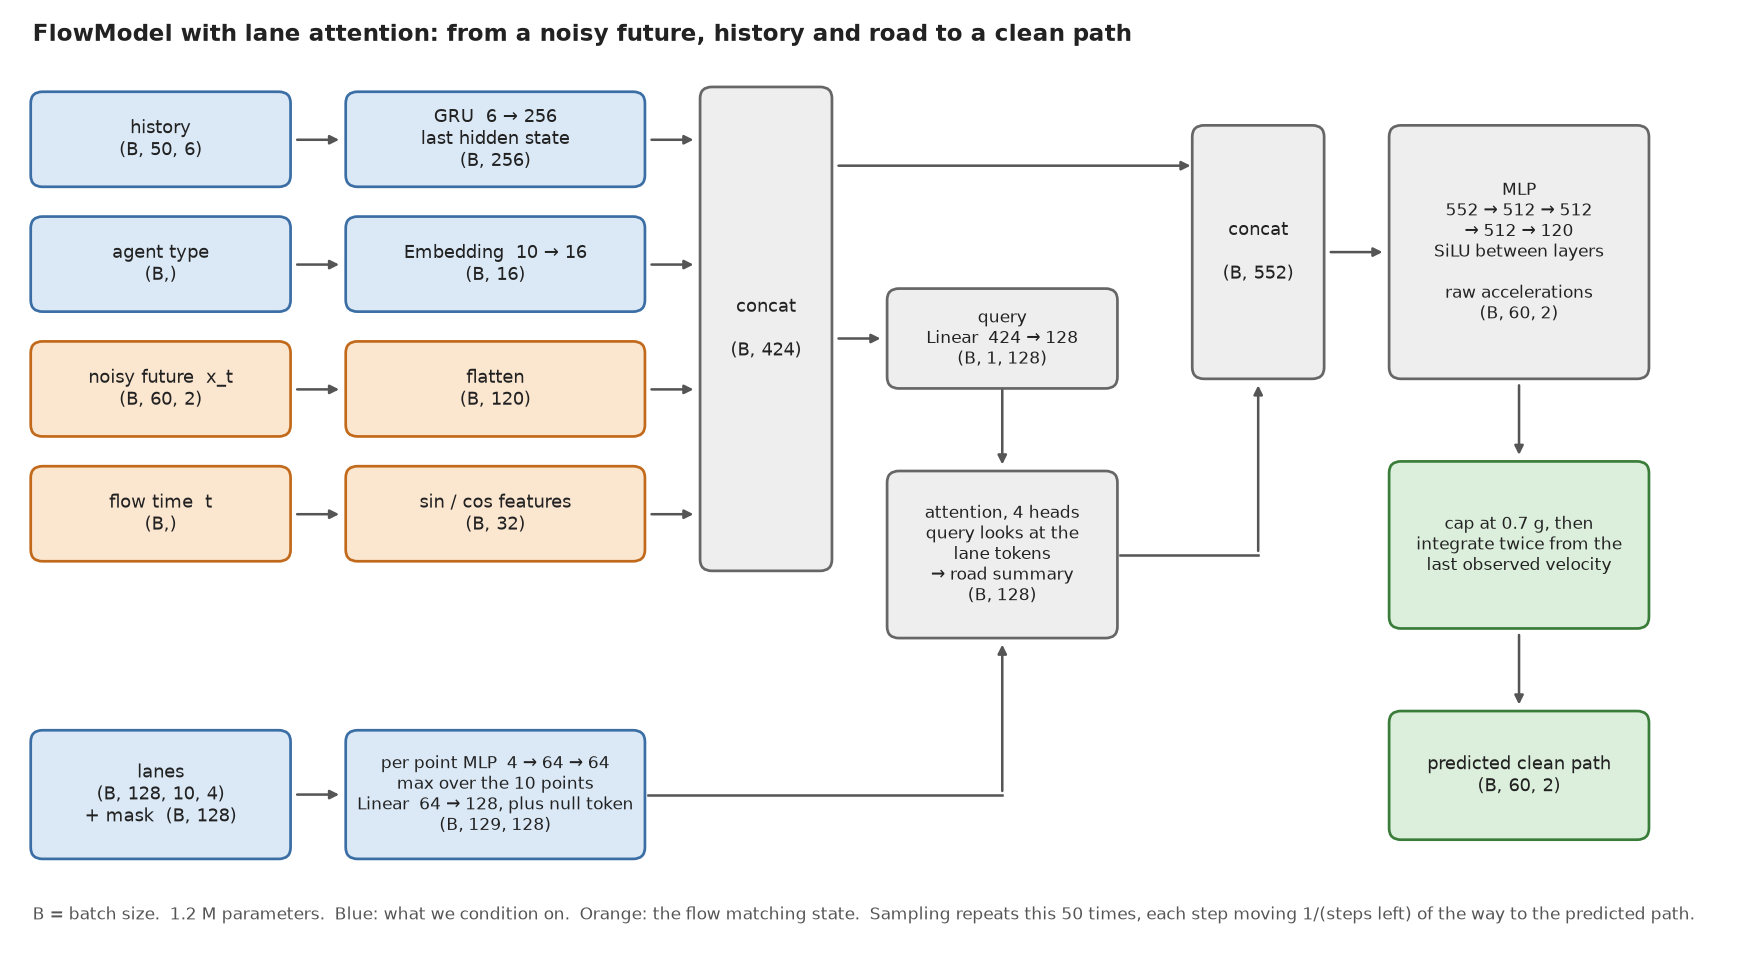
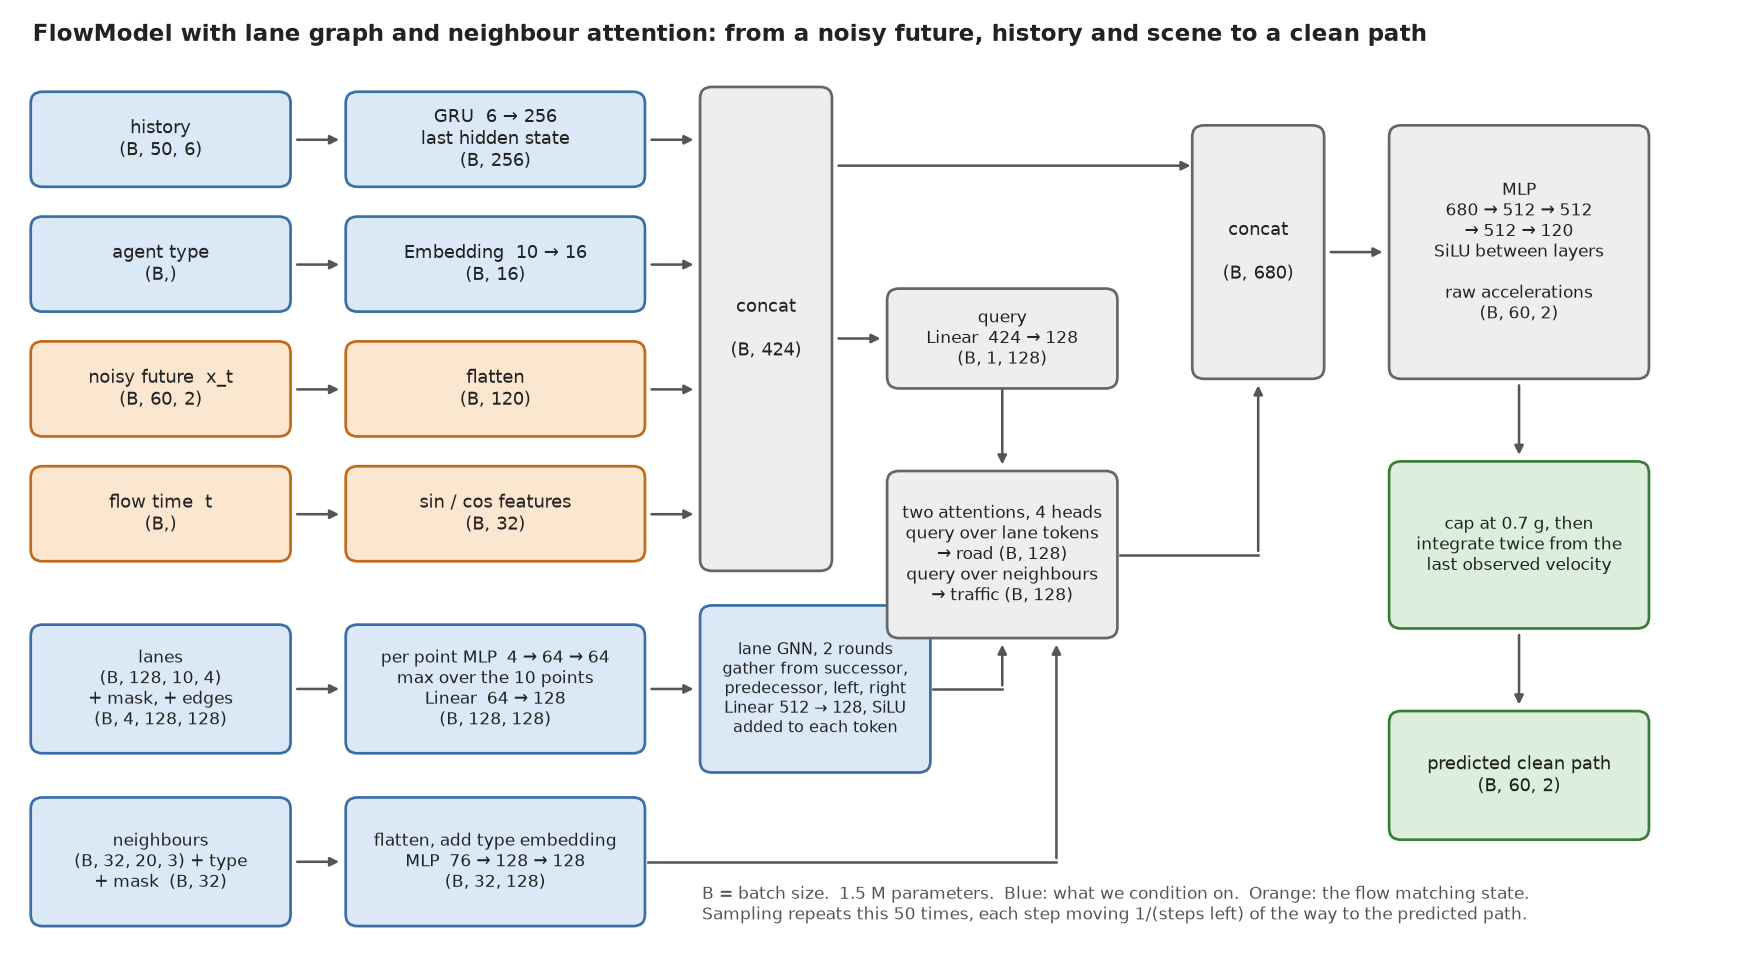
Add a lane graph network as stage 6
The loader keeps each lane's successor, predecessor, left and right
links and builds one adjacency per edge type, packed to bits in the
cache. Two rounds of message passing update the lane tokens before the
attention. The model overfits: train loss 0.003 against val 0.015, and
the six samples collapse, so best-of-6 gets worse while the single
sample improves. Scores and the edges-removed test are in results/.

Changed region(s): [[0.0, 0.6211, 0.9632, 0.9627], [0.1864, 0.0311, 0.8078, 0.0621], [0.5282, 0.528, 0.6525, 0.6211]]

diff --git a/model.py b/model.py
@@ -19,13 +19,14 @@ def integrate(u, v0):
 
 
 class FlowModel(nn.Module):
-    def __init__(self, hidden=256, type_dim=16, time_dim=32, width=512, token_dim=128):
+    def __init__(self, hidden=256, type_dim=16, time_dim=32, width=512, token_dim=128, gnn_layers=2):
         super().__init__()
         self.time_dim = time_dim
         self.type_embedding = nn.Embedding(len(TYPES), type_dim)
         self.history_encoder = nn.GRU(N_FEAT, hidden, batch_first=True)
         self.lane_points = nn.Sequential(nn.Linear(4, 64), nn.SiLU(), nn.Linear(64, 64))
         self.lane_token = nn.Linear(64, token_dim)
+        self.gnn = nn.ModuleList([nn.Sequential(nn.Linear(4 * token_dim, token_dim), nn.SiLU()) for _ in range(gnn_layers)])
         self.neighbor_token = nn.Sequential(nn.Linear(N_NEIGHBOR_STEPS * 3 + type_dim, token_dim), nn.SiLU(), nn.Linear(token_dim, token_dim))
         self.null_lane = nn.Parameter(torch.zeros(1, 1, token_dim))
         self.null_neighbor = nn.Parameter(torch.zeros(1, 1, token_dim))
@@ -46,18 +47,26 @@ class FlowModel(nn.Module):
         angles = t[:, None] * freqs
         return torch.cat([angles.sin(), angles.cos()], dim=1)
 
+    def message_pass(self, tokens, edges):
+        # each lane adds what it gathers from its successors, predecessors, left and right neighbours
+        for layer in self.gnn:
+            messages = torch.cat([edges[:, k].float() @ tokens for k in range(4)], dim=-1)
+            tokens = tokens + layer(messages)
+        return tokens
+
     def attend(self, attention, query, tokens, mask, null):
         # the null token keeps attention defined when a scene has nothing to attend to
         tokens = torch.cat([null.expand(len(tokens), -1, -1), tokens], dim=1)
         keep = torch.cat([torch.ones_like(mask[:, :1]), mask], dim=1)
         return attention(query, tokens, tokens, key_padding_mask=~keep)[0][:, 0]
 
-    def forward(self, x, t, history, type_id, lanes, lane_mask, neighbors, neighbor_mask, neighbor_type):
+    def forward(self, x, t, history, type_id, lanes, lane_mask, lane_edges, neighbors, neighbor_mask, neighbor_type):
         history_code = self.history_encoder(history)[1][-1]
         condition = torch.cat([history_code, self.type_embedding(type_id)], dim=1)
         inputs = torch.cat([x.flatten(1), condition, self.time_embedding(t)], dim=1)
         query = self.query(inputs)[:, None]
-        road = self.attend(self.lane_attention, query, self.lane_token(self.lane_points(lanes).max(2).values), lane_mask, self.null_lane)
+        lane_tokens = self.message_pass(self.lane_token(self.lane_points(lanes).max(2).values), lane_edges)
+        road = self.attend(self.lane_attention, query, lane_tokens, lane_mask, self.null_lane)
         traffic_tokens = self.neighbor_token(torch.cat([neighbors.flatten(2), self.type_embedding(neighbor_type)], dim=-1))
         traffic = self.attend(self.neighbor_attention, query, traffic_tokens, neighbor_mask, self.null_neighbor)
         u = self.acceleration_net(torch.cat([inputs, road, traffic], dim=1)).view(-1, N_FUT, 2)

diff --git a/av2_data.py b/av2_data.py
@@ -46,21 +46,31 @@ def load_scene(scenario_dir, max_neighbors=32, radius=100.0):
         neighbors[i, tr.timestep] = to_frame(tr[["position_x", "position_y"]].to_numpy(), origin, theta)
         neighbor_types.append(TYPES.index(tr.object_type.iloc[0]))
 
-    lanes = [np.array([[p["x"], p["y"]] for p in seg["centerline"]]) for seg in lane_map["lane_segments"].values()]
-    lanes = [to_frame(l, origin, theta) for l in lanes if np.linalg.norm(l - origin, axis=1).min() < radius]
+    segments = lane_map["lane_segments"].values()
+    lanes = {seg["id"]: to_frame(np.array([[p["x"], p["y"]] for p in seg["centerline"]]), origin, theta) for seg in segments}
+    lanes = {i: l for i, l in lanes.items() if np.linalg.norm(l, axis=1).min() < radius}
+    links = {seg["id"]: [seg["successors"], seg["predecessors"], [seg["left_neighbor_id"]], [seg["right_neighbor_id"]]] for seg in segments if seg["id"] in lanes}
 
-    return dict(id=sid, feat=feat, type=TYPES.index(focal.object_type.iloc[0]), hist=xy[:N_HIST], fut=xy[N_HIST:], neighbors=neighbors, neighbor_types=neighbor_types, lanes=lanes)
+    return dict(id=sid, feat=feat, type=TYPES.index(focal.object_type.iloc[0]), hist=xy[:N_HIST], fut=xy[N_HIST:], neighbors=neighbors, neighbor_types=neighbor_types, lanes=list(lanes.values()), lane_ids=list(lanes), lane_links=links)
 
 
-def lane_tokens(lanes):
+def lane_tokens(lanes, ids, links):
+    order = np.argsort([np.linalg.norm(l, axis=1).min() for l in lanes])[:N_LANES]
+    slot = {ids[j]: i for i, j in enumerate(order)}
     tokens = np.zeros((N_LANES, N_LANE_POINTS, 4), dtype=np.float32)
-    for i, j in enumerate(np.argsort([np.linalg.norm(l, axis=1).min() for l in lanes])[:N_LANES]):
+    # one adjacency per edge type: successor, predecessor, left neighbour, right neighbour
+    edges = np.zeros((4, N_LANES, N_LANES), dtype=bool)
+    for i, j in enumerate(order):
         length = np.concatenate([[0], np.cumsum(np.linalg.norm(np.diff(lanes[j], axis=0), axis=1))])
         along = np.linspace(0, length[-1], N_LANE_POINTS)
         points = np.column_stack([np.interp(along, length, lanes[j][:, k]) for k in range(2)])
         direction = np.gradient(points, axis=0)
         tokens[i] = np.column_stack([points, direction / np.linalg.norm(direction, axis=1, keepdims=True).clip(1e-6)])
-    return tokens, np.arange(N_LANES) < len(lanes)
+        for kind, targets in enumerate(links[ids[j]]):
+            for target in targets:
+                if target in slot:
+                    edges[kind, i, slot[target]] = True
+    return tokens, np.arange(N_LANES) < len(lanes), edges
 
 
 def neighbor_tokens(neighbors, types):

diff --git a/train.py b/train.py
@@ -11,26 +11,27 @@ def load(split):
     lanes, neighbors = torch.tensor(data["lanes"]), torch.tensor(data["neighbors"])
     lanes[..., :2] /= SCALE
     neighbors[..., :2] /= SCALE
-    return feat, fut, torch.tensor(data["type"]), lanes, torch.tensor(data["lane_mask"]), neighbors, torch.tensor(data["neighbor_mask"]), torch.tensor(data["neighbor_type"])
+    lane_edges = torch.tensor(np.unpackbits(data["lane_edges"], axis=-1).astype(bool))
+    return feat, fut, torch.tensor(data["type"]), lanes, torch.tensor(data["lane_mask"]), lane_edges, neighbors, torch.tensor(data["neighbor_mask"]), torch.tensor(data["neighbor_type"])
 
 
-def flow_loss(model, feat, fut, type_id, lanes, lane_mask, neighbors, neighbor_mask, neighbor_type, generator=None):
+def flow_loss(model, feat, fut, *scene, generator=None):
     x0 = torch.randn(fut.shape, generator=generator).to(fut.device)
     t = torch.rand(len(fut), generator=generator).to(fut.device)
     xt = (1 - t[:, None, None]) * x0 + t[:, None, None] * fut
-    return ((model(xt, t, feat, type_id, lanes, lane_mask, neighbors, neighbor_mask, neighbor_type) - fut) ** 2).mean()
+    return ((model(xt, t, feat, *scene) - fut) ** 2).mean()
 
 
 def val_loss(model, val):
     # fixed noise and times so the loss is comparable across checkpoints
     generator = torch.Generator().manual_seed(0)
     with torch.no_grad():
-        return np.mean([flow_loss(model, *(a[i : i + 500] for a in val), generator=generator).item() for i in range(0, len(val[1]), 500)])
+        return np.mean([flow_loss(model, *(a[i : i + 500].to(DEVICE) for a in val), generator=generator).item() for i in range(0, len(val[1]), 500)])
 
 
 if __name__ == "__main__":
     torch.manual_seed(0)
-    train, val = ([a.to(DEVICE) for a in load(split)] for split in ("train", "val"))
+    train, val = load("train"), load("val")
     model = FlowModel().to(DEVICE)
     ema = torch.optim.swa_utils.AveragedModel(model, multi_avg_fn=torch.optim.swa_utils.get_ema_multi_avg_fn(0.999))
     steps, batch = 20_000, 256
@@ -38,8 +39,8 @@ if __name__ == "__main__":
     scheduler = torch.optim.lr_scheduler.CosineAnnealingLR(optimizer, steps)
     losses = []
     for step in range(1, steps + 1):
-        idx = torch.randint(len(train[1]), (batch,), device=DEVICE)
-        loss = flow_loss(model, *(a[idx] for a in train))
+        idx = torch.randint(len(train[1]), (batch,))
+        loss = flow_loss(model, *(a[idx].to(DEVICE) for a in train))
         optimizer.zero_grad()
         loss.backward()
         optimizer.step()

diff --git a/preprocess.py b/preprocess.py
@@ -1,4 +1,4 @@
-"""Cache the focal agent's history features, future, type, lane tokens and neighbour tokens for each split as arrays"""
+"""Cache the focal agent's history features, future, type, lane tokens with their graph, and neighbour tokens for each split as arrays"""
 
 from multiprocessing import Pool
 
@@ -9,15 +9,16 @@ from av2_data import DATA_ROOT, lane_tokens, list_scenarios, load_scene, neighbo
 
 def load(scenario_dir):
     scene = load_scene(scenario_dir)
-    lanes, lane_mask = lane_tokens(scene["lanes"])
+    lanes, lane_mask, lane_edges = lane_tokens(scene["lanes"], scene["lane_ids"], scene["lane_links"])
     neighbors, neighbor_mask, neighbor_type = neighbor_tokens(scene["neighbors"], scene["neighbor_types"])
-    return scene["feat"].astype(np.float32), scene["fut"].astype(np.float32), scene["type"], lanes, lane_mask, neighbors, neighbor_mask, neighbor_type
+    # adjacency packed to bits, 8 KB per scene instead of 64 KB
+    return scene["feat"].astype(np.float32), scene["fut"].astype(np.float32), scene["type"], lanes, lane_mask, np.packbits(lane_edges, axis=-1), neighbors, neighbor_mask, neighbor_type
 
 
 if __name__ == "__main__":
     for split in ["train", "val"]:
         with Pool() as pool:
             arrays = map(np.array, zip(*pool.map(load, list_scenarios(split), chunksize=64)))
-        names = ["feat", "fut", "type", "lanes", "lane_mask", "neighbors", "neighbor_mask", "neighbor_type"]
+        names = ["feat", "fut", "type", "lanes", "lane_mask", "lane_edges", "neighbors", "neighbor_mask", "neighbor_type"]
         np.savez(DATA_ROOT / f"{split}.npz", **dict(zip(names, arrays)))
         print(split, "saved", names)

diff --git a/evaluate.py b/evaluate.py
@@ -9,9 +9,9 @@ from train import load
 
 
 @torch.no_grad()
-def sample(model, feat, type_id, lanes, lane_mask, neighbors, neighbor_mask, neighbor_type, k=6, steps=50):
-    scene = [a.repeat_interleave(k, dim=0) for a in (feat, type_id, lanes, lane_mask, neighbors, neighbor_mask, neighbor_type)]
-    x = torch.randn(len(feat) * k, N_FUT, 2, device=feat.device)
+def sample(model, *scene, k=6, steps=50):
+    scene = [a.repeat_interleave(k, dim=0) for a in scene]
+    x = torch.randn(len(scene[0]), N_FUT, 2, device=scene[0].device)
     for i in range(steps):
         t = torch.full((len(x),), i / steps, device=x.device)
         # each step moves 1/(steps left) of the way toward the predicted clean path

diff --git a/results/metrics.md b/results/metrics.md
@@ -9,10 +9,11 @@ Validation scores per stage, on the 2,000 val scenarios, in meters. minADE / min
 | 3 lane attention, 10,000 train scenarios | 94cbfcb | 3.49 / 8.81 / 0.85 | 1.72 / 3.87 / 0.57 |
 | 4 more data, weight averaging, GPU | 94cbfcb | 3.40 / 8.69 / 0.84 | 1.51 / 3.30 / 0.52 |
 | 5 neighbour attention | 88562b4 | 3.15 / 8.00 / 0.85 | 1.49 / 3.30 / 0.52 |
+| 6 lane GNN, 2 rounds of message passing | see git log | 2.97 / 7.49 / 0.83 | 1.91 / 4.46 / 0.54 |
 
 Notes on the images:
 - Stage 1 shows six random val scenes, mostly straight vehicles, with jagged samples.
-- Stages 2 to 5 show scenes chosen by how far the true path curves sideways, not by model score.
+- Stages 2 to 6 show scenes chosen by how far the true path curves sideways, not by model score.
 - The checkerboard warm-up images were not saved.
 
 To archive a new stage, run `python evaluate.py <name>` and it also writes `results/predictions_<name>.png`.
@@ -36,3 +37,15 @@ Stage 5 reliance test, 6 samples, all scenes, minADE / minFDE:
 | neighbours hidden | 1.70 / 3.88 |
 
 One run per stage with one seed. The stage 5 weights are kept locally in `results/focal_model_5_neighbors.pt`, which git ignores.
+
+Stage 6 overfits: train loss 0.003 against val 0.015, where stage 5 had 0.007 against 0.009. The single sample improved but the six samples collapsed onto nearly the same path, so best-of-6 got worse. Removing the edges at test time raises minADE from 1.91 to 3.63, so the graph is used, it just memorises.
+
+Stage 6 by curve type, 6 samples, minADE / minFDE, stage 5 in brackets:
+
+| Path type | Stage 6 | Stage 5 |
+|---|---|---|
+| straight | 1.59 / 3.62 | 1.22 / 2.58 |
+| gentle | 2.05 / 4.76 | 1.72 / 3.98 |
+| sharp | 3.17 / 7.85 | 2.42 / 5.68 |
+
+Weights: `results/focal_model_5_neighbors.pt` loads into `FlowModel(gnn_layers=0)`, `results/focal_model_6_lane_gnn.pt` into the default model. Both are gitignored.
